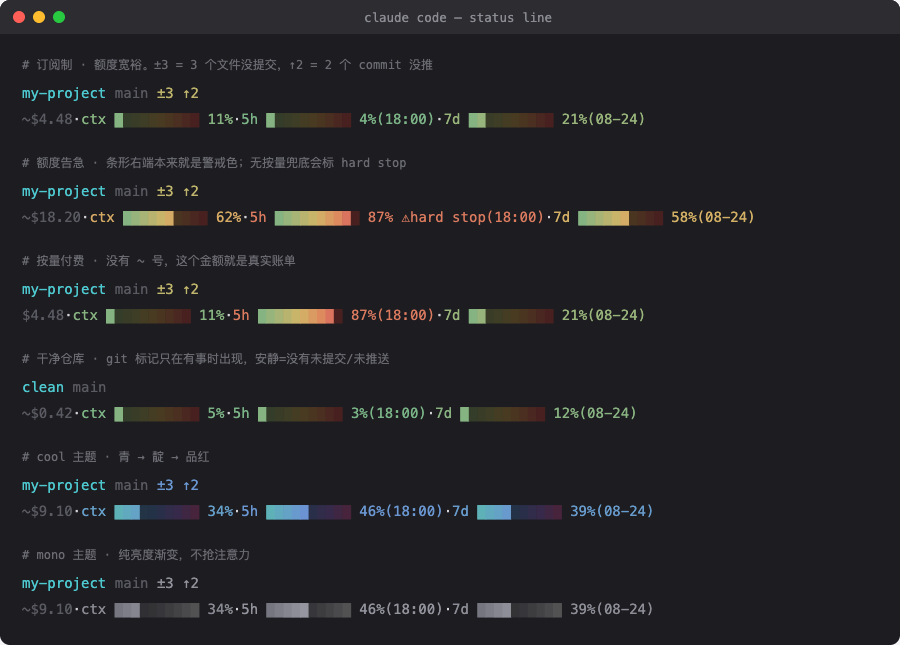
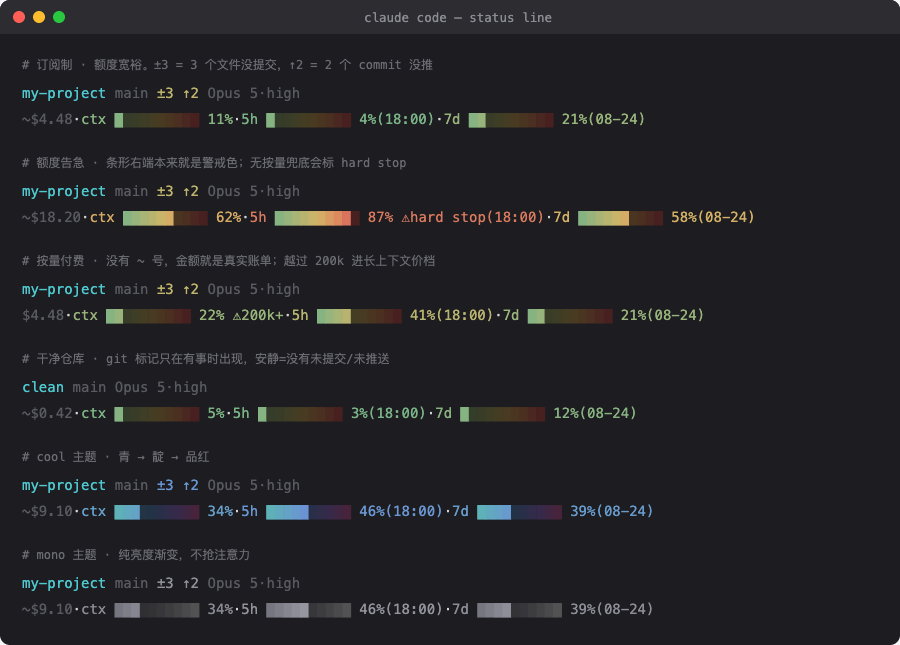
feat: show model/effort, and flag the 200k price tier on pay-as-you-go
Model and effort level are switched mid-session and then forgotten; finishing an
afternoon on a level meant to be temporary is a silent, expensive mistake. Both
now sit on line 1 ("Opus 5·high"), with "·fast" when fast mode is on. Read
straight from the payload — no extra work per render.

Crossing 200k input tokens moves you into the long-context price tier. That only
costs actual money on pay-as-you-go, so subscriptions are not nagged about it and
the marker reads "⚠200k+" — stating the fact rather than a multiplier, which
differs per model.

Agent: claude-code

diff --git a/scripts/statusline.py b/scripts/statusline.py
@@ -161,6 +161,25 @@ def billing():
     }
 
 
+def model_label(payload):
+    """`Opus 5·high` — which model and effort level this session is actually on.
+
+    Worth carrying because these are switched mid-session and easily forgotten:
+    finishing an afternoon on a model or effort level you meant to set temporarily
+    is a silent, expensive mistake. Fast mode is called out for the same reason.
+    """
+    name = (payload.get("model") or {}).get("display_name")
+    if not name:
+        return ""
+    parts = [name]
+    level = (payload.get("effort") or {}).get("level")
+    if level:
+        parts.append(level)
+    if payload.get("fast_mode"):
+        parts.append("fast")
+    return dim("·".join(parts))
+
+
 def git_state(cwd):
     """Branch, unpushed/unpulled commit counts, and dirty-file count in one call.
 
@@ -261,6 +280,10 @@ if cwd:
         label += f" {git}"
     head.append(label)
 
+model = model_label(payload)
+if model:
+    head.append(model)
+
 head.extend(extension_segments())
 
 # --- line 2: cost and the three usage gauges --------------------------------
@@ -276,7 +299,11 @@ if cost is not None:
 
 ctx_pct = (payload.get("context_window") or {}).get("used_percentage")
 if ctx_pct is not None:
-    metrics.append(gauge("ctx", ctx_pct))
+    # Past 200k input tokens the long-context price tier kicks in. That only costs
+    # real money on pay-as-you-go, so subscriptions aren't nagged about it — and
+    # the marker states the fact rather than a multiplier, which varies by model.
+    over = payload.get("exceeds_200k_tokens") and pay and not pay["subscription"]
+    metrics.append(gauge("ctx", ctx_pct, " ⚠200k+" if over else ""))
 
 now = time.time()
 

diff --git a/README.en.md b/README.en.md
@@ -28,7 +28,7 @@ This status line keeps three things in front of you: **is the context filling up
 ## Reading the line
 
 ```
-my-project main ±3 ↑2                              ← directory + git state (+ your own segments)
+my-project main ±3 ↑2  Opus 5·high                 ← directory + git state + model (+ your own segments)
 ~$4.48·ctx █░░░░░░░░░ 11%·5h █░░░░░░░░░ 4%(15:40)·7d ██░░░░░░░░ 21%(08-24)
 ```
 
@@ -38,6 +38,7 @@ my-project main ±3 ↑2                              ← directory + git state 
 | `main` | git branch (hidden outside a repo) |
 | `±3` | **3 files changed but not committed** (untracked files included) |
 | `↑2` | **2 commits not pushed**; behind the remote shows as `↓N` |
+| `Opus 5·high` | Current model + effort level; fast mode adds `·fast` |
 | `~$4.48` | Session spend. **The `~` means "equivalent, not billed"** — see below |
 | `ctx … 11%` | Context window used |
 | `5h … 4%(15:40)` | 5-hour limit: 4% used, resets at 15:40 |
@@ -46,6 +47,9 @@ my-project main ±3 ↑2                              ← directory + git state 
 git markers **appear only when there's something to say**: a clean tree in sync with its
 remote leaves just the branch name. A quiet status line means a quiet repo — no need to
 run `git status` to confirm.
+
+Model and effort level stay visible because they get **switched mid-session and forgotten** —
+spending an afternoon on a level you meant to set temporarily is a silent, expensive mistake.
 
 > Deliberately no cloud/emoji icons here: emoji are double-width in terminals and their
 > width varies by font, which makes the whole line jump around and knocks the bars out of
@@ -108,6 +112,18 @@ When a window is **≥80%** with **no pay-as-you-go fallback**, the status line 
 Meaning: continuing isn't "spend a bit more", it's **stop working until 15:40**. Knowing in advance lets you wrap up deliberately instead of getting cut off mid-task.
 
 (Pay-as-you-go accounts never show this — there's no fallback to lose; going over simply keeps billing.)
+
+### What `⚠200k+` means
+
+Past 200k input tokens, the **long-context price tier** applies and the per-token rate goes up.
+That only costs real money on pay-as-you-go, so subscriptions aren't nagged about it:
+
+```
+ctx ██░░░░░░░░ 22% ⚠200k+
+```
+
+The marker states the fact (you've crossed 200k) rather than a multiplier — the multiplier
+varies by model.
 
 Detection reads `oauthAccount.billingType`, `hasExtraUsageEnabled`, and `cachedExtraUsageDisabledReason` from `~/.claude.json`. If none of it can be read, it degrades safely: no tilde, no warning.
 
